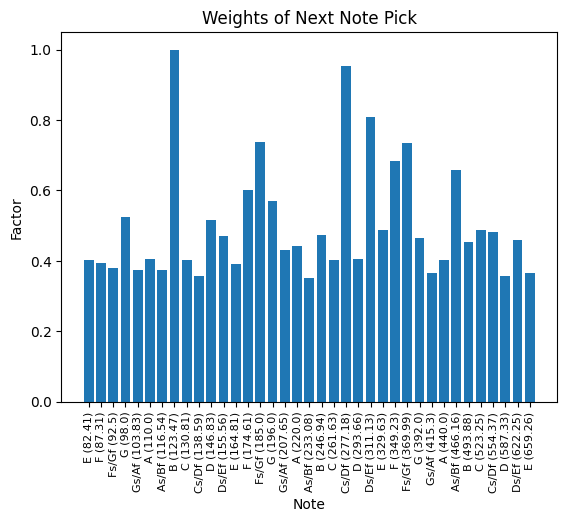
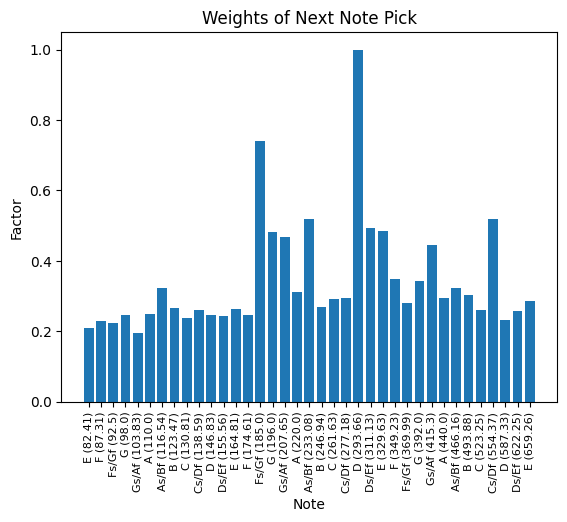
added overtones

Changed region(s): [[0.1499, 0.092, 0.9594, 0.6437]]

diff --git a/structs.py b/structs.py
@@ -1,5 +1,5 @@
 from constants import *
-from helpers import get_interval_name, make_pygame_sound_from_freq, reject_outliers, notes_equal
+from helpers import get_interval_name, make_pygame_sound_from_freq, reject_outliers, notes_equal, play_sounds_together
 
 import pygame
 import numpy
@@ -92,11 +92,28 @@ class Note(GuessMaker):
         self.frequency = NOTE_FREQ[string_idx][fret_idx]
 
 
-    def play_sound(self, millisecs):
-        sound = make_pygame_sound_from_freq(self.frequency)
+    def play_sound(self, millisecs, volume=1.0):
+        # create pygame sound from frequency
+        sound = make_pygame_sound_from_freq(self.frequency, volume)
+
+        # play for millisecs
         sound.play(-1)
         pygame.time.delay(millisecs)
         sound.stop()
+
+    def play_overtoned_sound(self, millisecs, n=4):
+        # generate first n overtones from fundemental frequency and play them
+        freqs = [self.frequency/(i+1) for i in range(n)] 
+
+        # set diminishing volume to overtones
+        decr_factor = 1
+        volumes = [1.0/(decr_factor*(i+1)) for i in range(n)]
+
+        # create pygame sounds with the volumes
+        sounds = [make_pygame_sound_from_freq(freq, volumes[i]) for i, freq in enumerate(freqs)]
+        
+        # play all sounds at once
+        play_sounds_together(sounds, millisecs)
 
     def __str__(self):
         return f'({self.name}) string: {self.string_idx} fret: {self.fret_idx}'

diff --git a/helpers.py b/helpers.py
@@ -110,23 +110,34 @@ def get_note_pos(notes_list, pos_list, note):
 
 
 
-def make_pygame_sound_from_freq(freq):
+def make_pygame_sound_from_freq(freq, volume=1.0):
+    # create sound from frequency
     arr = np.array([4096 * np.sin(2.0 * np.pi * freq * x / SAMPLE_RATE) for x in range(0, SAMPLE_RATE)]).astype(np.int16)
     arr2 = np.c_[arr,arr]
     sound = pygame.sndarray.make_sound(arr2)
+
+
+    # set volume
+    sound.set_volume(volume)
     return sound
 
-def play_notes_harmonic(note_a, note_b, millisecs):
-    sound_a = make_pygame_sound_from_freq(note_a.frequency)
-    sound_b = make_pygame_sound_from_freq(note_b.frequency)
+def play_sounds_together(sounds, millisecs):
+    # plays pygame sounds for millisecs duration
 
-    sound_a.play(-1)
-    sound_b.play(-1)
-
+    # start playing 
+    for sound in sounds:
+        sound.play(-1)
+    
+    # delay
     pygame.time.delay(millisecs)
 
-    sound_a.stop()
-    sound_b.stop()
+    # stop sounds
+    for sound in sounds:
+        sound.stop()
+
+def play_notes_harmonic(notes_list, millisecs):
+    sounds = [make_pygame_sound_from_freq(note.frequency) for note in notes_list]
+    play_sounds_together(sounds, millisecs)
 
 def hour_now() -> int:
     return dt.datetime.today().hour

diff --git a/play_intervals.py b/play_intervals.py
@@ -379,12 +379,12 @@ if __name__ == "__main__":
                     rand_lens = [random_play_len() for _ in range(3)]
                     if random.random() > HARMONIC_INTERVAL_PROB:
                         # play melodic
-                        note_a.play_sound(rand_lens[0])
-                        note_b.play_sound(rand_lens[1])
-                        note_a.play_sound(rand_lens[2])
+                        note_a.play_overtoned_sound(rand_lens[0])
+                        note_b.play_overtoned_sound(rand_lens[1])
+                        note_a.play_overtoned_sound(rand_lens[2])
 
                     else:
-                        play_notes_harmonic(note_a, note_b, sum(rand_lens))
+                        play_notes_harmonic([note_a, note_b], sum(rand_lens))
 
                     # # draw success or wrong text
                     # screen.blit(success_text, (WINDOW_WIDTH/2 - 55, WINDOW_HEIGHT - menu_height - (side_padding/2)))

diff --git a/play_notes.py b/play_notes.py
@@ -340,7 +340,7 @@ if __name__ == "__main__":
                     min_play, max_play = 700, 2500
                     random_play_len = lambda : random.randint(min_play, max_play)
                     play_len = random_play_len()
-                    predict_note.play_sound(play_len)
+                    predict_note.play_overtoned_sound(play_len)
 
                     # # draw success or wrong text
                     # screen.blit(success_text, (WINDOW_WIDTH/2 - 55, WINDOW_HEIGHT - menu_height - (side_padding/2)))
